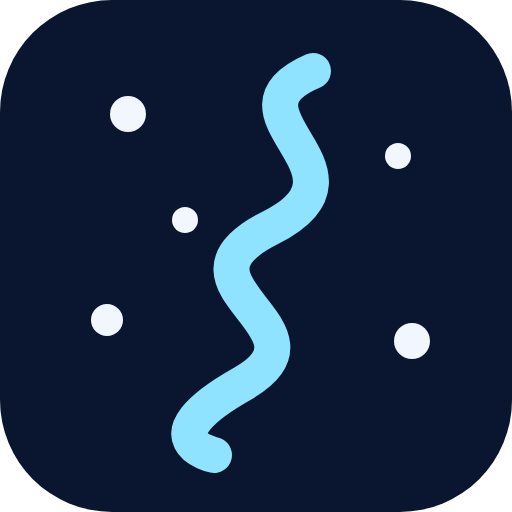
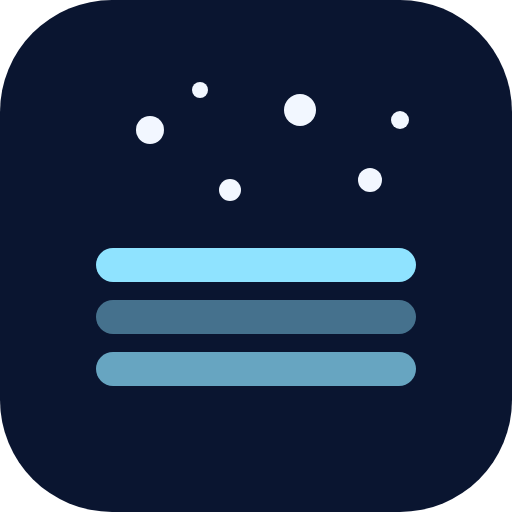
Nuova icona Strati (sw v36)
Claude-Session: https://claude.ai/code/session_01P5yZDsucUbgPJqP7Jh3rG1

diff --git a/sw.js b/sw.js
@@ -1,6 +1,6 @@
 // Service worker: rende l'app installabile e apribile anche senza rete.
 // Quando cambi i file dell'app, aumenta il numero di VERSION.
-const VERSION = 'v35';
+const VERSION = 'v36';
 const CACHE = `mm-shell-${VERSION}`;
 // Tutti i file dell'app, così funziona senza rete già dalla prima apertura.
 const SHELL = [
